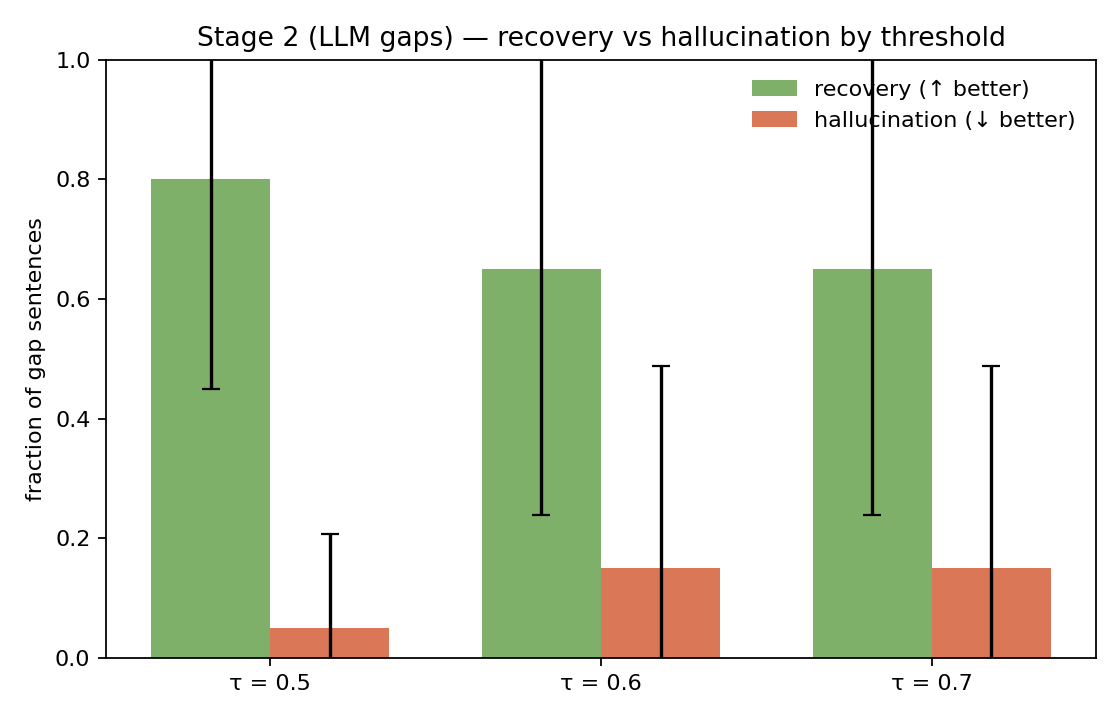
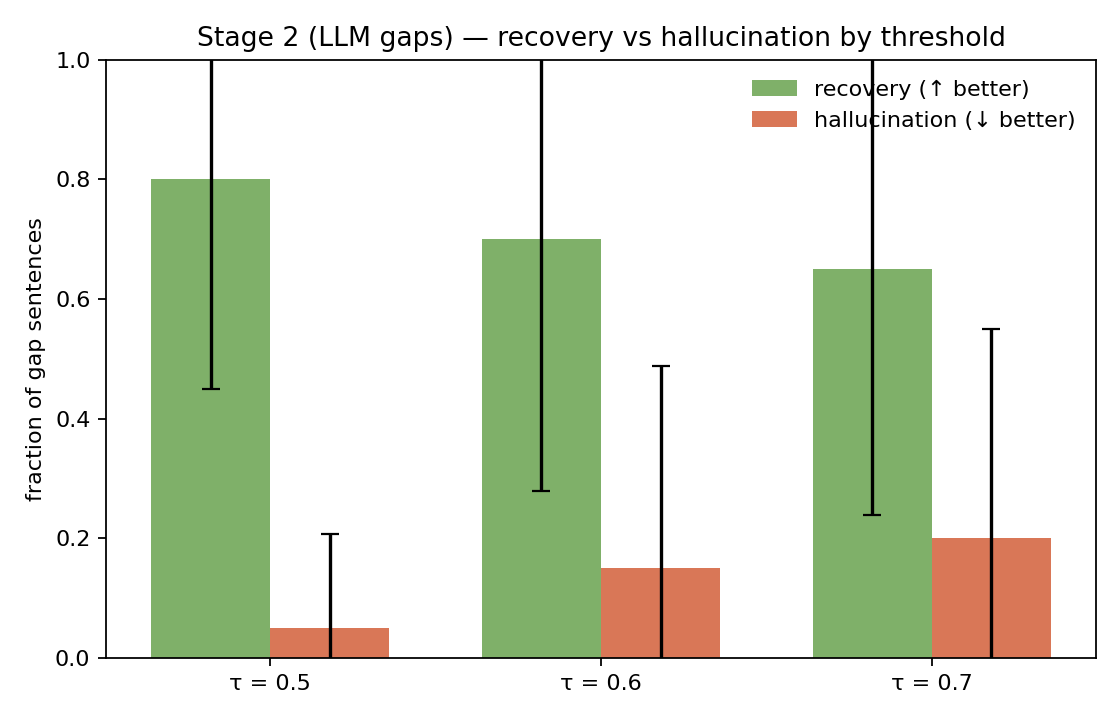
feat(bench): oracle condition — feed gold section to LLM, compare gap-to-gap
Adds --oracle to bench-extraction. When set, the bench also runs Stage 2
on the gold section text from unarXive (skipping Stage 1) and produces
oracle_gaps.tsv. Two new metrics compare our pipeline gaps directly to
the oracle gaps:

  pipeline_vs_oracle.recovery_at_τ   fraction of pipeline gaps with max
                                     cosine ≥ τ to any oracle gap
                                     (precision flavor)
  pipeline_vs_oracle.coverage_at_τ   fraction of oracle gaps the pipeline
                                     matched at ≥ τ                    (recall flavor)

Headline on v2b (10 papers, same LLM both sides):
  n_oracle_gaps              1.70   (same volume as pipeline — Stage 2 is
                                     not the volume bottleneck)
  recovery@0.6               0.600  60% of pipeline gaps match an oracle gap
  coverage@0.6               0.600  60% of oracle gaps are reproduced
  mean cosine pipe -> oracle 0.652
  mean cosine oracle -> pipe 0.700

Interpretation: 40% of what the LLM would extract on perfect input is
missed by the full pipeline, which is the remaining headroom for Stage 1
improvements (mostly the 3 papers where Stage 1 still hits the wrong
section after the style-aware fix).

diff --git a/src/gap2idea/pipeline/extraction_bench.py b/src/gap2idea/pipeline/extraction_bench.py
@@ -269,6 +269,31 @@ def run_pipeline(out_dir: Path, paper_texts_jsonl: Path, skip_llm: bool) -> tupl
     return sections_path, gaps_path
 
 
+def generate_oracle_gaps(papers: list[BenchPaper], out_dir: Path) -> Path:
+    """Feed the gold section text from unarXive straight into openai_gaps.
+
+    Builds a synthetic sections.jsonl where each row's `section_text` is the
+    paper's gold section (skipping Stage 1 entirely), then runs the same
+    `extract_gaps` LLM call. The output `oracle_gaps.tsv` has the same schema
+    as `gaps.tsv` so downstream code can treat it uniformly.
+    """
+    from gap2idea.pipeline.openai_gaps import extract_gaps
+
+    oracle_sections_path = out_dir / "oracle_sections.jsonl"
+    oracle_gaps_path = out_dir / "oracle_gaps.tsv"
+    with oracle_sections_path.open("w", encoding="utf-8") as f:
+        for bp in papers:
+            f.write(json.dumps({
+                "id": bp.paper_id,
+                "section_type": "gold",
+                "heading": ", ".join(bp.gold_section_titles) or "gold",
+                "section_text": bp.gold_section_text,
+            }, ensure_ascii=False) + "\n")
+    log.info("Generating oracle gaps from gold sections (%d papers)…", len(papers))
+    extract_gaps(oracle_sections_path, oracle_gaps_path, resume=False)
+    return oracle_gaps_path
+
+
 # ----------------------------------------------------------------------
 # 3. Metrics
 # ----------------------------------------------------------------------
@@ -304,8 +329,16 @@ def compute_metrics(
     sections_jsonl: Path,
     gaps_tsv: Path | None,
     taus: tuple[float, ...] = (0.5, 0.6, 0.7),
+    oracle_gaps_tsv: Path | None = None,
 ) -> pd.DataFrame:
-    """Per-paper metric table (long format)."""
+    """Per-paper metric table (long format).
+
+    When `oracle_gaps_tsv` is provided, also report:
+      pipeline_vs_oracle.recovery_at_τ   — fraction of pipeline gaps whose
+                                            max cosine to any oracle gap ≥ τ
+      pipeline_vs_oracle.coverage_at_τ   — fraction of oracle gaps that some
+                                            pipeline gap matches at ≥ τ
+    """
     from sentence_transformers import SentenceTransformer  # type: ignore
 
     sections_df = pd.read_json(sections_jsonl, lines=True, dtype=False)
@@ -314,6 +347,10 @@ def compute_metrics(
     gaps_df = None
     if gaps_tsv is not None and gaps_tsv.exists():
         gaps_df = pd.read_csv(gaps_tsv, sep="\t", dtype={"id": str})
+
+    oracle_df = None
+    if oracle_gaps_tsv is not None and oracle_gaps_tsv.exists():
+        oracle_df = pd.read_csv(oracle_gaps_tsv, sep="\t", dtype={"id": str})
 
     log.info("Loading sentence-transformer (all-MiniLM-L6-v2)…")
     embedder = SentenceTransformer("all-MiniLM-L6-v2")
@@ -383,6 +420,39 @@ def compute_metrics(
                     "value": halluc, "extra": "",
                 })
 
+            # --- pipeline_vs_oracle: gap-to-gap comparison ---
+            if oracle_df is not None:
+                oracle_sents = oracle_df.loc[oracle_df["id"] == pid, "gap_sentence"].astype(str).tolist()
+                oracle_vecs = _embed(embedder, oracle_sents)
+                pipe_to_oracle = _max_cosine(gap_vecs, oracle_vecs)         # per pipeline gap
+                oracle_to_pipe = _max_cosine(oracle_vecs, gap_vecs)         # per oracle gap
+
+                rows.append({
+                    "id": pid, "stage": "pipeline_vs_oracle", "metric": "n_oracle_gaps",
+                    "value": float(len(oracle_sents)), "extra": "",
+                })
+                rows.append({
+                    "id": pid, "stage": "pipeline_vs_oracle", "metric": "mean_sim_pipe_to_oracle",
+                    "value": float(pipe_to_oracle.mean()) if len(pipe_to_oracle) else 0.0,
+                    "extra": "",
+                })
+                rows.append({
+                    "id": pid, "stage": "pipeline_vs_oracle", "metric": "mean_sim_oracle_to_pipe",
+                    "value": float(oracle_to_pipe.mean()) if len(oracle_to_pipe) else 0.0,
+                    "extra": "",
+                })
+                for tau in taus:
+                    rec_p = float((pipe_to_oracle >= tau).mean()) if len(pipe_to_oracle) else 0.0
+                    cov_o = float((oracle_to_pipe >= tau).mean()) if len(oracle_to_pipe) else 0.0
+                    rows.append({
+                        "id": pid, "stage": "pipeline_vs_oracle",
+                        "metric": f"recovery_at_{tau}", "value": rec_p, "extra": "",
+                    })
+                    rows.append({
+                        "id": pid, "stage": "pipeline_vs_oracle",
+                        "metric": f"coverage_at_{tau}", "value": cov_o, "extra": "",
+                    })
+
     return pd.DataFrame(rows)
 
 
@@ -420,6 +490,7 @@ def run_benchmark(
     max_scan: int = 20000,
     use_pdf: bool = False,
     pdf_dir: Path | None = None,
+    oracle: bool = False,
 ) -> Path:
     out_dir.mkdir(parents=True, exist_ok=True)
 
@@ -436,8 +507,14 @@ def run_benchmark(
     # 2. run pipeline
     sections_path, gaps_path = run_pipeline(out_dir, out_dir / "paper_texts.jsonl", skip_llm=skip_llm)
 
+    # 2b. optional oracle: feed gold section straight to the LLM
+    oracle_gaps_path: Path | None = None
+    if oracle and not skip_llm:
+        oracle_gaps_path = generate_oracle_gaps(papers, out_dir)
+
     # 3. metrics
-    metrics = compute_metrics(papers, sections_path, gaps_path)
+    metrics = compute_metrics(papers, sections_path, gaps_path,
+                              oracle_gaps_tsv=oracle_gaps_path)
     metrics_path = out_dir / "metrics.tsv"
     metrics.to_csv(metrics_path, sep="\t", index=False)
     log.info("Wrote %s", metrics_path)

diff --git a/scripts/compare_extraction_bench.py b/scripts/compare_extraction_bench.py
@@ -54,6 +54,26 @@ def main(out_md: Path) -> None:
         lines.append(f"| {label} | {c['n_gaps']:.2f} | {c['mean_sim_to_gold']:.3f} | "
                      f"{c['recovery_at_0.6']:.3f} | {c['hallucination_at_0.6']:.3f} |")
 
+    # Stage 2 oracle comparison — only v2b has it (we ran --oracle there)
+    p = Path("data/bench_v2b/metrics.tsv")
+    if p.exists():
+        df = pd.read_csv(p, sep="\t")
+        sub = df[df["stage"] == "pipeline_vs_oracle"]
+        if not sub.empty:
+            lines.append("\n## Pipeline gaps vs Oracle gaps (gold section fed straight to LLM)\n")
+            lines.append("Two systems, same Stage-2 LLM. Oracle skips Stage 1.\n")
+            lines.append("| metric | mean | meaning |")
+            lines.append("|---|---:|---|")
+            for m, meaning in [
+                ("n_oracle_gaps",              "gaps the LLM produces on the gold section"),
+                ("mean_sim_pipe_to_oracle",    "avg cosine: each pipeline gap → closest oracle gap"),
+                ("mean_sim_oracle_to_pipe",    "avg cosine: each oracle gap → closest pipeline gap"),
+                ("recovery_at_0.6",            "fraction of pipeline gaps that match an oracle gap"),
+                ("coverage_at_0.6",            "fraction of oracle gaps the pipeline reproduced"),
+            ]:
+                v = sub[sub["metric"] == m]["value"].mean()
+                lines.append(f"| {m} | {v:.3f} | {meaning} |")
+
     # Per-paper diff between v1 and v2b
     if (Path("data/bench/metrics.tsv").exists()
             and Path("data/bench_v2b/metrics.tsv").exists()):

diff --git a/src/gap2idea/cli.py b/src/gap2idea/cli.py
@@ -276,6 +276,7 @@ def cmd_bench_extraction(args):
         tarball_path=args.tarball,
         max_scan=args.max_scan,
         use_pdf=args.use_pdf,
+        oracle=args.oracle,
     )
 
 
@@ -425,6 +426,9 @@ def main():
                     help="Download arxiv PDFs for the sampled papers and feed the "
                          "style-aware block extractor (PyMuPDF). When omitted, the "
                          "bench feeds unarXive's already-parsed plain text.")
+    be.add_argument("--oracle", action="store_true",
+                    help="Also feed the gold section text directly to openai_gaps "
+                         "and report pipeline_vs_oracle gap-to-gap metrics.")
     be.set_defaults(func=cmd_bench_extraction)
 
     # bench-plots

diff --git a/data/bench_v2b/REPORT.md b/data/bench_v2b/REPORT.md
@@ -22,13 +22,22 @@ Reference: author-titled `future work` / `limitations` sections from unarXive 20
 |---|---|---:|---:|---:|
 | llm_gap | hallucination_at_0.5 | 0.050 | 0.158 | 10 |
 | llm_gap | hallucination_at_0.6 | 0.150 | 0.337 | 10 |
-| llm_gap | hallucination_at_0.7 | 0.150 | 0.337 | 10 |
-| llm_gap | mean_sim_to_full | 0.917 | 0.159 | 10 |
-| llm_gap | mean_sim_to_gold | 0.739 | 0.245 | 10 |
+| llm_gap | hallucination_at_0.7 | 0.200 | 0.350 | 10 |
+| llm_gap | mean_sim_to_full | 0.897 | 0.163 | 10 |
+| llm_gap | mean_sim_to_gold | 0.757 | 0.228 | 10 |
 | llm_gap | n_gaps | 1.700 | 0.483 | 10 |
 | llm_gap | recovery_at_0.5 | 0.800 | 0.350 | 10 |
-| llm_gap | recovery_at_0.6 | 0.650 | 0.412 | 10 |
+| llm_gap | recovery_at_0.6 | 0.700 | 0.422 | 10 |
 | llm_gap | recovery_at_0.7 | 0.650 | 0.412 | 10 |
+| pipeline_vs_oracle | coverage_at_0.5 | 0.600 | 0.459 | 10 |
+| pipeline_vs_oracle | coverage_at_0.6 | 0.600 | 0.459 | 10 |
+| pipeline_vs_oracle | coverage_at_0.7 | 0.500 | 0.471 | 10 |
+| pipeline_vs_oracle | mean_sim_oracle_to_pipe | 0.700 | 0.296 | 10 |
+| pipeline_vs_oracle | mean_sim_pipe_to_oracle | 0.652 | 0.278 | 10 |
+| pipeline_vs_oracle | n_oracle_gaps | 1.700 | 0.483 | 10 |
+| pipeline_vs_oracle | recovery_at_0.5 | 0.600 | 0.459 | 10 |
+| pipeline_vs_oracle | recovery_at_0.6 | 0.600 | 0.459 | 10 |
+| pipeline_vs_oracle | recovery_at_0.7 | 0.500 | 0.471 | 10 |
 | regex_section | pred_chars | 5411.200 | 3815.419 | 10 |
 | regex_section | rouge1_f | 0.459 | 0.275 | 10 |
 | regex_section | rouge2_f | 0.359 | 0.296 | 10 |

diff --git a/data/bench_ablation.md b/data/bench_ablation.md
@@ -15,7 +15,19 @@
 |---|---:|---:|---:|---:|
 | v1 (text + old regex) | 1.10 | 0.515 | 0.400 | 0.100 |
 | v2a (text + new vocab) | nan | nan | nan | nan |
-| v2b (PDF + style + new vocab) | 1.70 | 0.739 | 0.650 | 0.150 |
+| v2b (PDF + style + new vocab) | 1.70 | 0.757 | 0.700 | 0.150 |
+
+## Pipeline gaps vs Oracle gaps (gold section fed straight to LLM)
+
+Two systems, same Stage-2 LLM. Oracle skips Stage 1.
+
+| metric | mean | meaning |
+|---|---:|---|
+| n_oracle_gaps | 1.700 | gaps the LLM produces on the gold section |
+| mean_sim_pipe_to_oracle | 0.652 | avg cosine: each pipeline gap → closest oracle gap |
+| mean_sim_oracle_to_pipe | 0.700 | avg cosine: each oracle gap → closest pipeline gap |
+| recovery_at_0.6 | 0.600 | fraction of pipeline gaps that match an oracle gap |
+| coverage_at_0.6 | 0.600 | fraction of oracle gaps the pipeline reproduced |
 
 ## Per-paper rouge1_f, v1 → v2b
 
